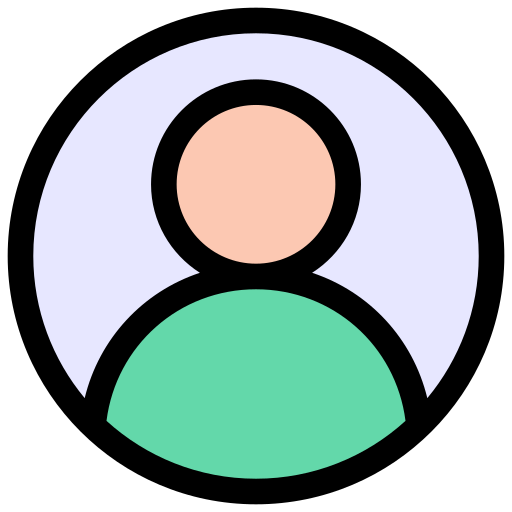
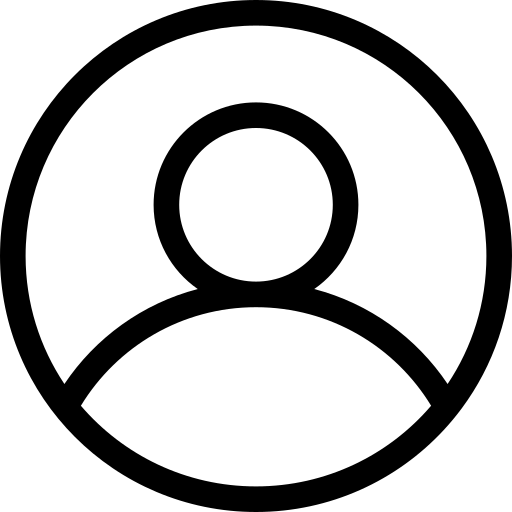
refactor: remove default user image fallback from UserAvatar and related components

diff --git a/src/components/UserAvatar/index.jsx b/src/components/UserAvatar/index.jsx
@@ -1,17 +1,23 @@
 import classNames from "classnames";
-import { Avatar, AvatarImage } from "../ui/avatar";
+import { Avatar, AvatarFallback, AvatarImage } from "../ui/avatar";
+import { useCurrentUser } from "@/features/auth";
+import defaultImageUser from "@/assets/images/defaultImageUser.png";
 
-const UserAvatar = ({ imgSize, className, src, Icon }) => {
+const UserAvatar = ({ username, userId, imgSize, className, src, Icon }) => {
+  const currentUser = useCurrentUser();
   return (
     <div className="relative overflow-hidden">
       <div className="rounded-full shadow hover:scale-100">
         <Avatar className={classNames(imgSize, className)}>
-          <AvatarImage src={src} />
+          <AvatarImage
+            src={src || defaultImageUser}
+            alt={username || "User avatar"}
+          />
         </Avatar>
       </div>
-      {Icon && (
-        <div className="absolute right-0 bottom-0 flex h-3 w-3 items-center justify-center rounded-full bg-black hover:scale-125">
-          <Icon size={8} strokeWidth={2} color="white" />
+      {Icon && currentUser.id !== userId && (
+        <div className="absolute right-0 bottom-0 flex h-4 w-4 items-center justify-center rounded-full bg-black hover:scale-125">
+          <Icon size={10} strokeWidth={3} color="white" />
         </div>
       )}
     </div>

diff --git a/src/components/UserProfileDialog/index.jsx b/src/components/UserProfileDialog/index.jsx
@@ -8,19 +8,19 @@ import {
 
 import AuthRequiredDialog from "@/components/AuthRequiredDialog";
 import UserAvatar from "../UserAvatar";
-import defaultImageUser from "@/assets/images/defaultImageUser.png";
 import { useCurrentUser } from "@/features/auth";
 import { Button } from "../ui/button";
 
 const UserProfileDialog = ({ user }) => {
   const currentUser = useCurrentUser();
-
   return (
     <div className="relative">
       <Dialog>
         <DialogTrigger>
           <UserAvatar
-            src={user.avatar_url || defaultImageUser}
+            username={user.name}
+            userId={user.id}
+            src={user.avatar_url}
             imgSize="h-10 w-10"
             Icon={Plus}
           />
@@ -33,10 +33,7 @@ const UserProfileDialog = ({ user }) => {
               </DialogTitle>
               <span>{user.username}</span>
             </div>
-            <UserAvatar
-              src={user.avatar_url || defaultImageUser}
-              imgSize="h-14 w-14"
-            />
+            <UserAvatar src={user.avatar_url} imgSize="h-14 w-14" />
           </div>
           <p
             className="text-foreground text-sm font-semibold"

diff --git a/src/components/Posts/components/CreatePost/index.jsx b/src/components/Posts/components/CreatePost/index.jsx
@@ -10,7 +10,6 @@ import {
 
 import UserAvatar from "@/components/UserAvatar";
 import { useCurrentUser } from "@/features/auth";
-import defaultImageUser from "@/assets/images/defaultImageUser.png";
 
 const CreatePost = () => {
   const currentUser = useCurrentUser();
@@ -18,10 +17,7 @@ const CreatePost = () => {
     <div className="flex items-center justify-between gap-2 border-b border-gray-300 p-4">
       <div className="flex w-full items-center">
         <Link to={"/profile"}>
-          <UserAvatar
-            imgSize="w-9 h-9"
-            src={currentUser.avatar_url || defaultImageUser}
-          />
+          <UserAvatar imgSize="w-9 h-9" src={currentUser.avatar_url} />
         </Link>
         <div className="w-full rounded-md p-2 text-sm text-gray-400">
           Có gì mới?

diff --git a/src/components/QuoteItem/index.jsx b/src/components/QuoteItem/index.jsx
@@ -1,17 +1,13 @@
 import PostHeader from "../Posts/components/PostHeader";
 import PostContent from "../Posts/components/PostContent";
 import UserAvatar from "../UserAvatar";
-import defaultImageUser from "@/assets/images/defaultImageUser.png";
 
 const QuoteItem = ({ originalPost }) => {
   const { user, content, media_urls } = originalPost;
   return (
     <div className="mt-2 flex items-start gap-2 rounded-xl border border-gray-300 bg-gray-50 p-3 shadow">
       <div>
-        <UserAvatar
-          src={user.avatar_url || defaultImageUser}
-          imgSize="h-6 w-6"
-        />
+        <UserAvatar src={user.avatar_url} imgSize="h-6 w-6" />
       </div>
       <div>
         <PostHeader user={user} />
